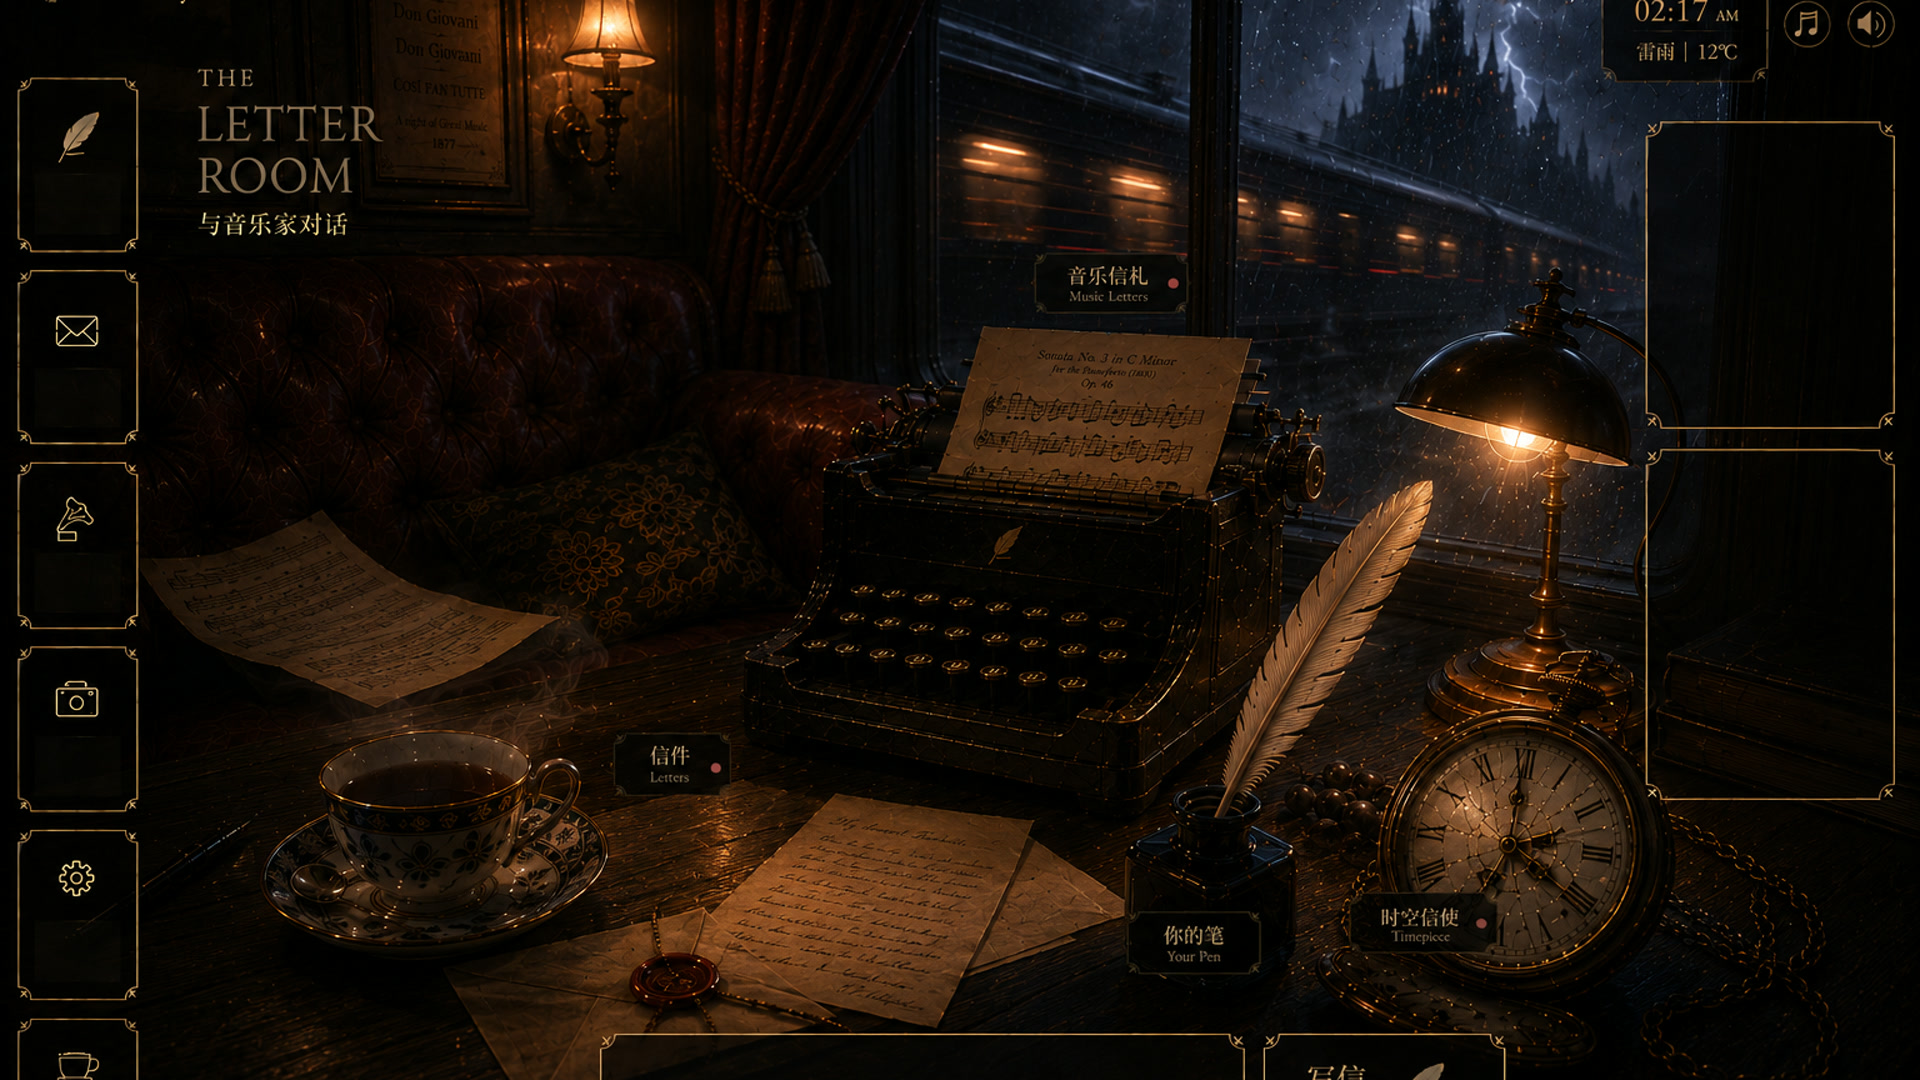
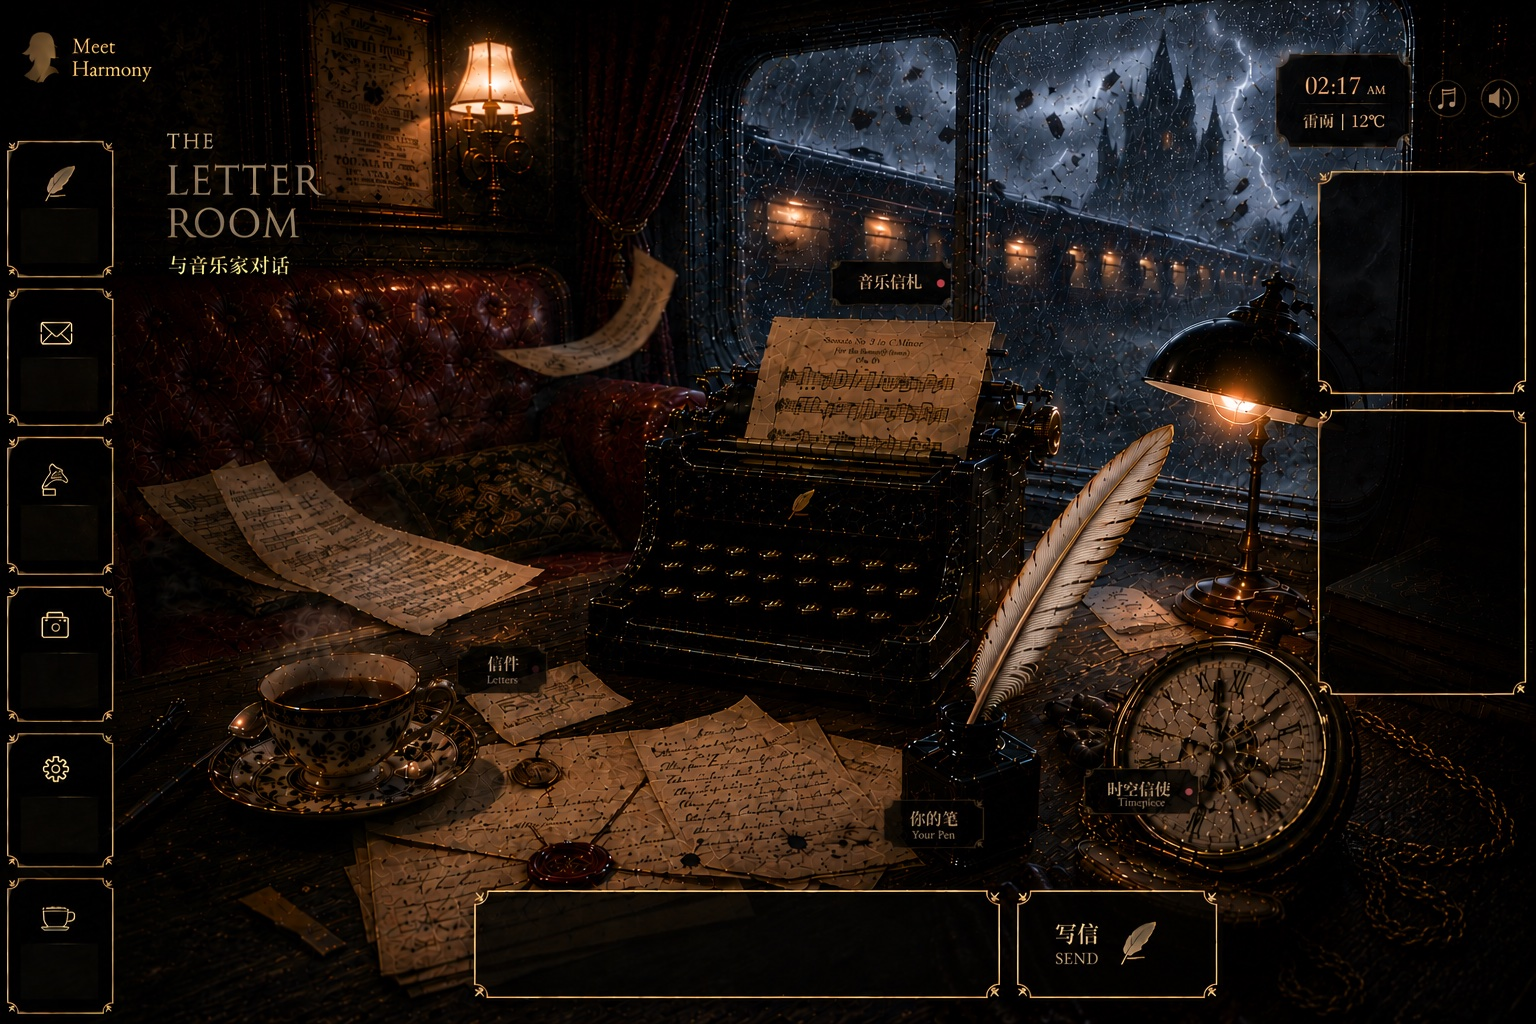
Bind letter game scene hotspots

diff --git a/letter-game.html b/letter-game.html
@@ -16,19 +16,17 @@
 .stage-frame{position:relative;aspect-ratio:4/3;width:min(100vw,calc(100vh * 4 / 3));height:auto;max-width:100%;max-height:100%;overflow:hidden;background:#0b0705;box-shadow:0 34px 120px rgba(0,0,0,.72),inset 0 0 0 1px rgba(215,182,106,.12)}
 .stage-frame:before{content:'';position:absolute;inset:0;z-index:1;background:radial-gradient(ellipse at center,transparent 55%,rgba(0,0,0,.42) 82%,rgba(0,0,0,.76) 100%);pointer-events:none}
 .stage-frame:after{content:'';position:absolute;inset:0;z-index:2;background:repeating-linear-gradient(90deg,rgba(255,255,255,.018) 0 1px,transparent 1px 4px);mix-blend-mode:screen;opacity:.14;pointer-events:none}
-.scene-wrap{--scene-base:translateY(-50%);position:absolute;left:0;right:0;top:50%;width:100%;aspect-ratio:16/9;height:auto;transform:var(--scene-base);animation:trainSway 7.5s ease-in-out infinite;transform-origin:50% 58%;will-change:transform;overflow:visible}
-.scene-image{position:absolute;inset:0;background-image:url('assets/victorian-train-home.jpg');background-size:contain;background-position:center;background-repeat:no-repeat;background-color:#0b0705;filter:saturate(1.03) contrast(1.06) brightness(.94)}
-.scene-wrap:after{content:'';position:absolute;inset:0;background:radial-gradient(circle at 62% 42%,rgba(255,196,104,.10),transparent 24%),linear-gradient(90deg,rgba(0,0,0,.58) 0%,rgba(0,0,0,.12) 25%,rgba(0,0,0,.04) 53%,rgba(0,0,0,.26) 78%,rgba(0,0,0,.54) 100%),linear-gradient(180deg,rgba(0,0,0,.16),transparent 42%,rgba(0,0,0,.36));pointer-events:none}
+.scene-wrap{--scene-base:translateY(-50%);position:absolute;left:0;right:0;top:50%;width:100%;aspect-ratio:3/2;height:auto;transform:var(--scene-base);animation:trainSway 7.5s ease-in-out infinite;transform-origin:50% 58%;will-change:transform;overflow:visible;transition:filter .2s ease,transform .2s ease}
+.scene-wrap.is-leaving{filter:brightness(.72) saturate(.92);transform:var(--scene-base) scale(.994)}
+.scene-image{position:absolute;inset:0;z-index:0;background-image:url('assets/victorian-train-home.jpg');background-size:contain;background-position:center;background-repeat:no-repeat;background-color:#0b0705;filter:saturate(1.03) contrast(1.06) brightness(.98)}
+.scene-wrap:after{content:'';position:absolute;inset:0;z-index:4;background:radial-gradient(circle at 62% 42%,rgba(255,196,104,.08),transparent 24%),linear-gradient(90deg,rgba(0,0,0,.34) 0%,rgba(0,0,0,.04) 25%,rgba(0,0,0,.02) 55%,rgba(0,0,0,.18) 82%,rgba(0,0,0,.36) 100%),linear-gradient(180deg,rgba(0,0,0,.08),transparent 44%,rgba(0,0,0,.20));pointer-events:none}
 @keyframes trainSway{0%,100%{transform:var(--scene-base) translate3d(0,0,0) rotate(0deg)}20%{transform:var(--scene-base) translate3d(.16%,-.12%,0) rotate(.06deg)}47%{transform:var(--scene-base) translate3d(-.14%,.10%,0) rotate(-.05deg)}73%{transform:var(--scene-base) translate3d(.08%,.14%,0) rotate(.04deg)}}
-.brand,.scene-title{display:none}
-.hotspot{position:absolute;z-index:8;display:block;border:1px solid rgba(215,182,106,.02);border-radius:10px;text-decoration:none;cursor:pointer;transition:border-color .18s,box-shadow .18s,background .18s,transform .18s}.hotspot:hover,.hotspot:focus-visible{outline:none;border-color:rgba(246,217,145,.92);background:rgba(215,182,106,.07);box-shadow:0 0 0 1px rgba(215,182,106,.38),0 0 28px rgba(215,182,106,.28),inset 0 0 32px rgba(215,182,106,.07);transform:translateY(-1px)}.hotspot:after{content:attr(data-label);position:absolute;left:50%;bottom:100%;transform:translate(-50%,-10px);white-space:nowrap;padding:7px 10px;border:1px solid rgba(215,182,106,.55);border-radius:4px;background:rgba(9,7,4,.86);color:#f5df9e;font-family:var(--serif);font-size:13px;letter-spacing:.06em;opacity:0;pointer-events:none;transition:.18s;box-shadow:0 8px 22px rgba(0,0,0,.28)}.hotspot:hover:after,.hotspot:focus-visible:after{opacity:1;transform:translate(-50%,-14px)}
-.hot-menu{left:.8%;top:13.5%;width:6.7%;height:83%}.hot-write{left:58.2%;top:50.6%;width:12.6%;height:34.7%}.hot-gr{left:8.2%;top:47.5%;width:21.5%;height:25.2%}.hot-letters{left:28.5%;top:68%;width:30.7%;height:19%}.hot-music{left:47.4%;top:27.5%;width:18.4%;height:26.5%}.hot-time{left:63.8%;top:31.5%;width:33.5%;height:28.5%}.hot-room{left:84.6%;top:18.5%;width:12.8%;height:28.4%}.hot-bottom{left:31.2%;top:88%;width:32.7%;height:8.1%}
-.ui-panel{position:absolute;z-index:7;border:1px solid rgba(215,182,106,.26);background:linear-gradient(145deg,rgba(36,25,13,.22),rgba(6,5,4,.08) 58%,rgba(0,0,0,.16));box-shadow:inset 0 1px 0 rgba(255,232,174,.08),inset 0 -18px 40px rgba(0,0,0,.20),inset 0 0 0 1px rgba(255,232,174,.035);pointer-events:none;backdrop-filter:blur(.4px)}.ui-panel:before{content:'';position:absolute;inset:7px;border:1px solid rgba(215,182,106,.13);box-shadow:inset 0 0 22px rgba(215,182,106,.035);pointer-events:none}.ui-panel:after{content:'';position:absolute;inset:0;background:linear-gradient(115deg,rgba(255,232,174,.06),transparent 20%,transparent 70%,rgba(0,0,0,.12));pointer-events:none}.right-slot{right:2.6%;top:18.2%;width:12.9%;height:28%;border-radius:2px;transform:perspective(900px) rotateY(-3deg);transform-origin:right center}.lower-slot{left:31.1%;bottom:3.6%;width:32.9%;height:8.4%;border-radius:2px;background:linear-gradient(180deg,rgba(5,4,3,.34),rgba(22,13,7,.16));box-shadow:inset 0 10px 24px rgba(0,0,0,.34),inset 0 0 0 1px rgba(255,232,174,.045)}.slot-label,.slot-copy{display:none}
-.send-button{position:absolute;z-index:9;right:21.5%;bottom:3.4%;width:12.6%;height:8.7%;min-width:0;border:1px solid rgba(215,182,106,.03);display:flex;align-items:center;justify-content:center;color:transparent;text-decoration:none;background:transparent;box-shadow:none;transition:.18s}.send-button:hover{border-color:#f6d991;background:rgba(215,182,106,.06);box-shadow:0 0 32px rgba(215,182,106,.34),inset 0 0 30px rgba(215,182,106,.08);transform:translateY(-1px)}.send-button span,.send-button i{display:none}
-.top-orbs,.clock-card{display:none}
-.nav-drawer{position:absolute;left:1.2%;top:12.4%;z-index:20;width:min(310px,28%);padding:16px;border:1px solid rgba(215,182,106,.55);background:rgba(8,6,4,.9);backdrop-filter:blur(10px);box-shadow:0 24px 70px rgba(0,0,0,.4);transform:translateX(-110%);opacity:0;transition:.22s}.nav-drawer.open{transform:translateX(0);opacity:1}.nav-drawer h2{font-family:var(--serif);font-size:22px;font-weight:500;color:#f1d88e;margin-bottom:6px}.nav-drawer p{font-size:12px;line-height:1.7;color:#b9ad95;margin-bottom:12px}.nav-link{display:flex;align-items:center;justify-content:space-between;padding:10px 0;border-top:1px solid rgba(215,182,106,.18);color:#f1e7cb;text-decoration:none;font-size:14px}.nav-link span{color:#bfa46a;font-family:var(--mono);font-size:10px;letter-spacing:.12em}.nav-link:hover{color:#ffe4a0}.drawer-close{position:absolute;right:10px;top:8px;border:0;background:transparent;color:#d7b66a;font-size:22px;cursor:pointer}.route-map{margin-top:14px;padding-top:12px;border-top:1px solid rgba(215,182,106,.18);font-family:var(--mono);font-size:10px;line-height:1.8;color:#9d927d}
-.mobile-nav{display:none;position:absolute;left:14px;right:14px;bottom:14px;z-index:15;grid-template-columns:repeat(5,1fr);gap:8px}.mobile-nav a{padding:10px 4px;text-align:center;border:1px solid rgba(215,182,106,.48);border-radius:6px;background:rgba(6,5,4,.68);color:#f5df9e;text-decoration:none;font-size:12px}.mobile-nav i{display:block;font-size:18px;margin-bottom:2px}
-@media(max-width:760px){.train-home{padding:0}.stage-frame{width:100vw;height:100vh;aspect-ratio:auto}.scene-wrap{--scene-base:translate(-50%,-50%);left:50%;right:auto;top:50%;width:177.78vh;min-width:100vw;max-width:none;aspect-ratio:16/9;height:auto;animation:trainSway 8s ease-in-out infinite}.scene-image{background-size:contain}.hotspot,.ui-panel,.send-button,.clock-card,.top-orbs{display:none}.mobile-nav{display:grid}.nav-drawer{position:absolute;left:14px;top:74px;width:min(310px,86vw)}.stage-frame:before{background:linear-gradient(180deg,rgba(0,0,0,.58),rgba(0,0,0,.18) 44%,rgba(0,0,0,.78))}}
+.hotspot{position:absolute;z-index:8;display:block;border:1px solid rgba(215,182,106,.015);border-radius:12px;text-decoration:none;cursor:pointer;background:transparent;transition:border-color .18s,box-shadow .18s,background .18s,transform .18s,filter .18s}.hotspot:hover,.hotspot:focus-visible{outline:none;border-color:rgba(246,217,145,.88);background:rgba(215,182,106,.055);box-shadow:0 0 0 1px rgba(215,182,106,.30),0 0 26px rgba(215,182,106,.24),inset 0 0 36px rgba(215,182,106,.055);filter:brightness(1.09);transform:translateY(-1px)}.hotspot:after{content:attr(data-label);position:absolute;left:50%;bottom:100%;transform:translate(-50%,-10px);white-space:nowrap;padding:7px 10px;border:1px solid rgba(215,182,106,.48);border-radius:4px;background:rgba(9,7,4,.82);color:#f5df9e;font-family:var(--serif);font-size:13px;letter-spacing:.06em;opacity:0;pointer-events:none;transition:.18s;box-shadow:0 8px 22px rgba(0,0,0,.28)}.hotspot:hover:after,.hotspot:focus-visible:after{opacity:1;transform:translate(-50%,-14px)}
+.hot-archive{left:12.2%;top:3.4%;width:17.1%;height:31.2%}.hot-gr{left:20.8%;top:50.8%;width:15.4%;height:24.1%}.hot-write{left:48.8%;top:43.6%;width:25.4%;height:31.4%;z-index:10}.hot-events{left:44.8%;top:74%;width:24.2%;height:14.5%}.hot-letters{left:69.4%;top:57%;width:10.8%;height:31%}.hot-final{left:81.2%;top:75.2%;width:16.2%;height:16.8%}.hot-time{left:63.2%;top:78%;width:12.3%;height:13.4%}
+.typewriter-glint{position:absolute;z-index:5;left:51.4%;top:58.3%;width:17.6%;height:8.8%;pointer-events:none;opacity:0;background:linear-gradient(110deg,transparent 12%,rgba(255,222,151,.28) 48%,transparent 74%);mix-blend-mode:screen;filter:blur(.6px);transition:opacity .18s}.scene-wrap:has(.hot-write:hover) .typewriter-glint{opacity:.58}
+.gr-drawer{position:absolute;z-index:14;left:21.8%;top:44%;width:25.5%;min-height:22%;padding:18px 18px 16px;border:1px solid rgba(215,182,106,.34);border-radius:8px;background:linear-gradient(145deg,rgba(20,13,8,.91),rgba(8,6,4,.84));box-shadow:0 24px 70px rgba(0,0,0,.52),inset 0 0 0 1px rgba(255,226,164,.045);color:#ead8ad;font-family:var(--serif);opacity:0;transform:translateY(10px) scale(.985);pointer-events:none;transition:.2s}.gr-drawer.open{opacity:1;transform:translateY(0) scale(1);pointer-events:auto}.gr-drawer h2{font-size:18px;letter-spacing:.12em;margin-bottom:10px;color:#f4df9a}.gr-drawer p{font-size:14px;line-height:1.8;color:#d9c89c}.gr-drawer form{display:flex;gap:8px;margin-top:14px}.gr-drawer input{flex:1;min-width:0;border:1px solid rgba(215,182,106,.28);border-radius:4px;background:rgba(255,245,218,.06);color:#f5ecd5;padding:9px 10px;font-family:var(--serif);outline:none}.gr-drawer input:focus{border-color:rgba(246,217,145,.7)}.gr-drawer button{border:1px solid rgba(215,182,106,.38);border-radius:4px;background:rgba(215,182,106,.10);color:#f5df9e;padding:0 12px;font-family:var(--serif);cursor:pointer}.gr-close{position:absolute;right:8px;top:6px;width:26px;height:26px}
+.dev-door{position:absolute;left:.7%;bottom:.8%;z-index:21;width:2.2%;aspect-ratio:1;border:0;background:transparent;opacity:0;cursor:default}.dev-door:focus-visible{opacity:1;outline:1px solid rgba(215,182,106,.35)}
+@media(max-width:760px){.train-home{padding:0}.stage-frame{width:100vw;height:100vh;aspect-ratio:auto}.scene-wrap{--scene-base:translate(-50%,-50%);left:50%;right:auto;top:50%;width:150vh;min-width:100vw;max-width:none;aspect-ratio:3/2;height:auto;animation:trainSway 8s ease-in-out infinite}.scene-image{background-size:contain}.gr-drawer{left:27%;top:39%;width:38%;min-height:26%}.stage-frame:before{background:linear-gradient(180deg,rgba(0,0,0,.50),rgba(0,0,0,.10) 44%,rgba(0,0,0,.68))}}
 
 </style>
 </head>
@@ -37,32 +35,76 @@
   <div class="stage-frame">
     <div class="scene-wrap">
       <div class="scene-image"></div>
-      <a class="brand" href="classic.html" aria-label="进入旧版功能页"><span class="brand-mark"></span><span class="brand-title">Meet<br>Harmony</span></a>
-      <section class="scene-title"><div class="eyebrow">THE</div><h1>LETTER<br>ROOM</h1><p>与音乐家对话</p></section>
-      <button class="hotspot hot-menu" data-label="打开导航" aria-label="打开导航" onclick="toggleDrawer(event)"></button>
-      <a class="hotspot hot-write" data-label="打字机 / 与当前音乐家对话" aria-label="打字机 与当前音乐家对话" href="/write"></a>
-      <a class="hotspot hot-gr" data-label="沙发小物件 / Gr小姐" aria-label="沙发小物件 Gr小姐入口" href="/classic"></a>
-      <a class="hotspot hot-letters" data-label="信封 / 信札档案" aria-label="信封 信札档案" href="/letters"></a>
-      <a class="hotspot hot-music" data-label="留声机 / 音乐线索" aria-label="留声机 音乐线索" href="/music"></a>
-      <a class="hotspot hot-time" data-label="车窗 / 时空画廊" aria-label="车窗 时空画廊" href="/timeline"></a>
-      <a class="hotspot hot-room" data-label="档案框 / 新来信" aria-label="档案框 新来信" href="/letter-room"></a>
-      <a class="hotspot hot-bottom" data-label="桌面信道 / 当前章节" aria-label="桌面信道 当前章节" href="/letter-room"></a>
-      <div class="clock-card"><b id="clockText">02:17</b><span id="weatherText">雷雨｜12°C</span></div>
-      <nav class="top-orbs" aria-label="顶部快捷入口"><a class="orb" href="/music" aria-label="音乐"><i class="ti ti-music"></i></a><a class="orb" href="classic.html" aria-label="旧版"><i class="ti ti-volume"></i></a></nav>
-      <aside class="ui-panel right-slot"><span class="slot-label">New Letter</span><p class="slot-copy">新来信、人物状态与下一张卡牌。</p></aside>
-      <aside class="ui-panel lower-slot"><span class="slot-label">Signal Channel</span><p class="slot-copy">当前音乐家的打字机信道。</p></aside>
-      <a class="send-button" href="/write" aria-label="写信"><span><b>写信</b><small>SEND</small></span><i class="ti ti-feather"></i></a>
-      <section class="nav-drawer" id="navDrawer" aria-label="导航菜单"><button class="drawer-close" onclick="toggleDrawer(event,false)">×</button><h2>列车导航</h2><p>这是独立叙事游戏的入口页。主动作在打字机，其余功能藏在车厢物件中。</p><a class="nav-link" href="/write">打字机 · 当前音乐家<span>/write</span></a><a class="nav-link" href="/classic">沙发小物件 · Gr小姐<span>/classic</span></a><a class="nav-link" href="/letters">信封 · 信札档案<span>/letters</span></a><a class="nav-link" href="/music">留声机 · 音乐线索<span>/music</span></a><a class="nav-link" href="/timeline">车窗 · 时空画廊<span>/timeline</span></a><a class="nav-link" href="/letter-room">档案框 · 新来信<span>/letter-room</span></a><div class="route-map">性能策略：静态场景图、少量摇晃与灯光、点击后再进入业务页，音乐家资源不在首页一次性加载。</div></section>
+      <div class="typewriter-glint" aria-hidden="true"></div>
+      <a class="hotspot hot-archive" data-label="时空档案袋" aria-label="左上角乐谱画框 时空档案袋" href="/music"></a>
+      <button class="hotspot hot-gr" data-label="GR小姐" aria-label="GR机器人 打开GR小姐聊天框" onclick="openGrDrawer(event)"></button>
+      <a class="hotspot hot-write" data-label="与音乐家对话" aria-label="打字机 与当前音乐家对话" href="/write"></a>
+      <a class="hotspot hot-events" data-label="人生大事" aria-label="火漆信封 人生大事" href="/timeline"></a>
+      <a class="hotspot hot-letters" data-label="旅行信札" aria-label="羽毛笔与墨水瓶 旅行信札" href="/letters"></a>
+      <a class="hotspot hot-final" data-label="最后的来信" aria-label="绝密信件 最后的来信" href="/letter-room"></a>
+      <a class="hotspot hot-time" data-label="滴答回溯" aria-label="桌面怀表 滴答回溯" href="/timeline"></a>
+      <aside class="gr-drawer" id="grDrawer" aria-label="GR小姐聊天框">
+        <button class="gr-close" type="button" aria-label="关闭GR小姐聊天框" onclick="closeGrDrawer(event)">×</button>
+        <h2>GR小姐</h2>
+        <p id="grLine">我在。先别急着解释整段命运，只告诉我，你听见了哪一个声音。</p>
+        <form onsubmit="sendGrWhisper(event)">
+          <input name="gr" autocomplete="off" placeholder="轻声告诉她..." aria-label="给GR小姐留言">
+          <button type="submit">递出</button>
+        </form>
+      </aside>
+      <a class="dev-door" href="/classic" aria-label="隐藏开发入口"></a>
     </div>
-    <nav class="mobile-nav" aria-label="移动端导航"><a href="/write"><i class="ti ti-feather"></i>写信</a><a href="/letters"><i class="ti ti-mail"></i>信件</a><a href="/music"><i class="ti ti-gramophone"></i>音乐</a><a href="/timeline"><i class="ti ti-clock"></i>时空</a><a href="/classic"><i class="ti ti-layout-dashboard"></i>旧版</a></nav>
   </div>
 </main>
 <script>
-function toggleDrawer(event,force){event?.preventDefault();const d=document.getElementById('navDrawer');d.classList.toggle('open',typeof force==='boolean'?force:undefined)}
-function pad(n){return String(n).padStart(2,'0')}
-function updateClock(){const now=new Date();document.getElementById('clockText').textContent=`${pad(now.getHours())}:${pad(now.getMinutes())}`}
-updateClock();setInterval(updateClock,30000);
-document.addEventListener('keydown',e=>{if(e.key==='Escape')toggleDrawer(e,false)});
+const sceneWrap=document.querySelector('.scene-wrap');
+function playSceneTap(){
+  try{
+    const Ctx=window.AudioContext||window.webkitAudioContext;
+    const ctx=window.__letterTapCtx||(window.__letterTapCtx=new Ctx());
+    const osc=ctx.createOscillator();
+    const gain=ctx.createGain();
+    osc.type='sine';
+    osc.frequency.setValueAtTime(220,ctx.currentTime);
+    osc.frequency.exponentialRampToValueAtTime(110,ctx.currentTime+.12);
+    gain.gain.setValueAtTime(.0001,ctx.currentTime);
+    gain.gain.exponentialRampToValueAtTime(.045,ctx.currentTime+.015);
+    gain.gain.exponentialRampToValueAtTime(.0001,ctx.currentTime+.16);
+    osc.connect(gain).connect(ctx.destination);
+    osc.start();
+    osc.stop(ctx.currentTime+.18);
+  }catch(e){}
+}
+function openGrDrawer(event){
+  event?.preventDefault();
+  playSceneTap();
+  document.getElementById('grDrawer')?.classList.add('open');
+}
+function closeGrDrawer(event){
+  event?.preventDefault();
+  document.getElementById('grDrawer')?.classList.remove('open');
+}
+function sendGrWhisper(event){
+  event.preventDefault();
+  const input=event.currentTarget.elements.gr;
+  const text=input.value.trim();
+  if(!text)return;
+  playSceneTap();
+  document.getElementById('grLine').textContent='我收到了。等列车穿过下一段雨声，我会把这句话夹进信纸里。';
+  input.value='';
+}
+document.querySelectorAll('a.hotspot').forEach(link=>{
+  link.addEventListener('click',event=>{
+    if(event.metaKey||event.ctrlKey||event.shiftKey||event.altKey)return;
+    const href=link.getAttribute('href');
+    if(!href||href==='#')return;
+    event.preventDefault();
+    playSceneTap();
+    sceneWrap?.classList.add('is-leaving');
+    window.setTimeout(()=>{window.location.href=href},190);
+  });
+});
+document.addEventListener('keydown',event=>{if(event.key==='Escape')closeGrDrawer(event)});
 </script>
 </body>
 </html>
